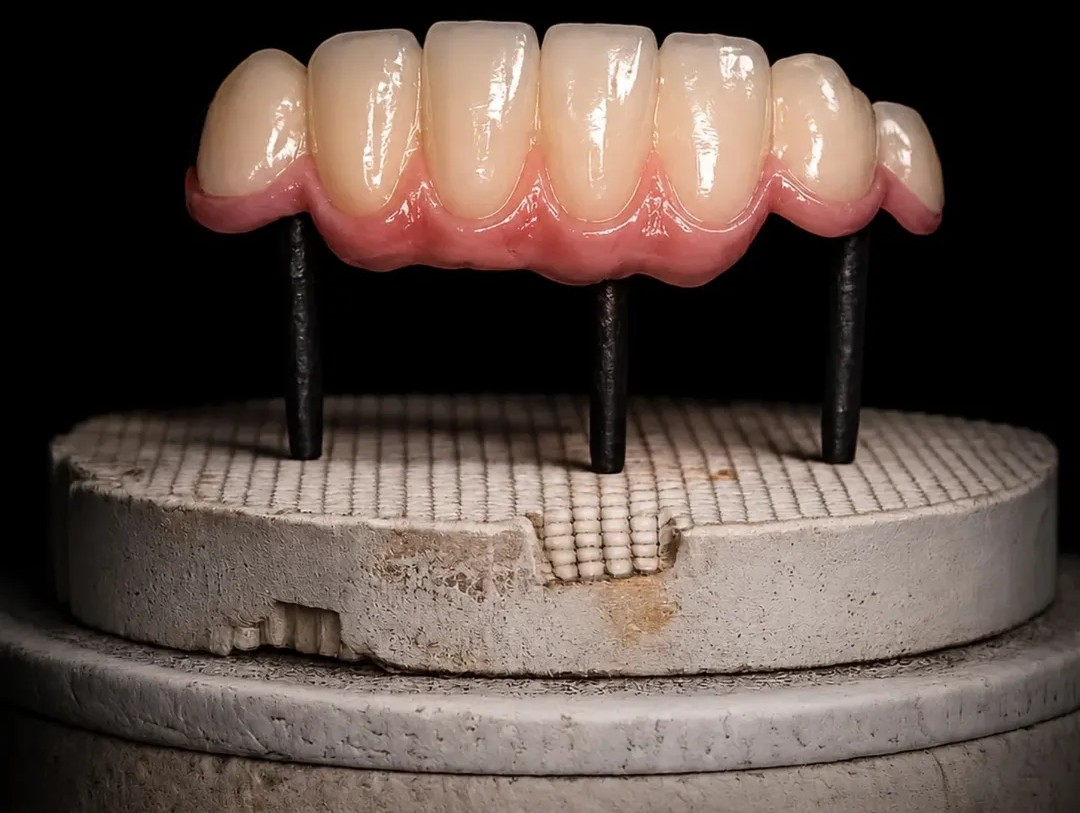
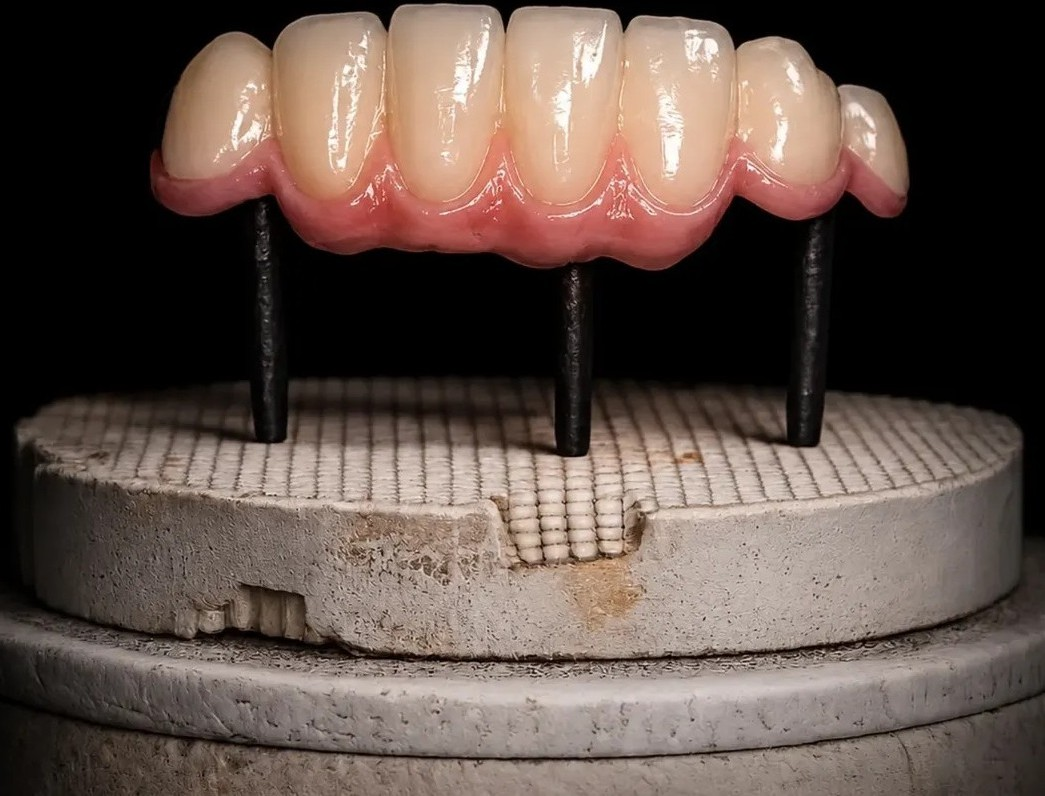
add all work cards

diff --git a/GD dental lab react/src/components/work_card.jsx b/GD dental lab react/src/components/work_card.jsx
@@ -1,21 +1,57 @@
 const myServices = [
   {
     id: 1,
-    title: "Zirconia Crowns",
-    description: "Strong, natural-looking metal-free crowns.",
+    title: "Zirconia Crowns & Bridges",
+    description: "Strong, natural-looking metal-free crowns with high biocompatibility.",
     imageUrl: "/images/zirconia.jpg" 
   },
   {
     id: 2,
-    title: "PFM Bridges",
-    description: "Porcelain fused to metal for durable bridges.",
-    imageUrl: "/images/pfm.jpg"
+    title: "Dental Implants & Custom Abutments",
+    description: "Precision-milled custom abutments and highly accurate implant-supported prosthetics.",
+    imageUrl: "/images/implants.jpg"
   },
   {
     id: 3,
-    title: "Removable Dentures",
-    description: "Comfortable, high-quality acrylic dentures.",
+    title: "DMLS (Direct Metal Laser Sintering)",
+    description: "Laser-sintered metal frameworks ensuring exceptional marginal fit and durability.",
+    imageUrl: "/images/dmls.jpg"
+  },
+  {
+    id: 4,
+    title: "All-Ceramic / E.max",
+    description: "Highly aesthetic lithium disilicate restorations, perfect for anterior teeth.",
+    imageUrl: "/images/ceramic.jpg"
+  },
+  {
+    id: 5,
+    title: "PFM Crowns & Bridges",
+    description: "Porcelain fused to metal for traditional, durable bridges and crowns.",
+    imageUrl: "/images/pfm.jpg"
+  },
+  {
+    id: 6,
+    title: "Removable Acrylic Dentures",
+    description: "Comfortable, high-quality full and partial acrylic dentures.",
     imageUrl: "/images/dentures.jpg"
+  },
+  {
+    id: 7,
+    title: "Cast Partial Dentures (CPD)",
+    description: "Lightweight and robust metal framework partial dentures for long-term use.",
+    imageUrl: "/images/cpd.jpg"
+  },
+  {
+    id: 8,
+    title: "Clear Aligners",
+    description: "Custom-thermoformed transparent aligners for precise orthodontic correction.",
+    imageUrl: "/images/aligners.jpg"
+  },
+  {
+    id: 9,
+    title: "Night Guards & Splints",
+    description: "Protective custom-fitted occlusal splints designed to prevent bruxism damage.",
+    imageUrl: "/images/nightguard.jpg"
   }
 ];
 
@@ -23,14 +59,14 @@ function Card(props){
   return(<>
       <div className="bg-white/10 backdrop-blur-md border-white/10 shadow-lg ml-12 mr-12 rounded-3xl">
         <img src={props.imageUrl} alt={props.title} />
-        <h3 className="text-white">{props.title}</h3>
-        <h4 className="text-gray-400">{props.description}</h4>
+        <h3 className="text-white p-4">{props.title}</h3>
+        <h4 className="text-gray-400 p-4">{props.description}</h4>
       </div>
   </>)
 }
 function MCard(){
   return(<>
-      <div className="grid grid-cols-1 md:grid-cols-3 gap-6 ">
+      <div className="grid grid-cols-3 md:grid-cols-3 gap-6 ">
         
         {myServices.map(function(service)
         { return(

diff --git a/GD dental lab react/src/App.jsx b/GD dental lab react/src/App.jsx
@@ -14,8 +14,10 @@ function App() {
       <div>
       </div>
     </div>
-    <div className="bg-[url(./assets/bg_poster_2.jpg)] h-dvh bg-cover">
-      <MCard></MCard>
+    <div className="bg-[url(./assets/bg_poster_1.jpg)] h-dvh bg-cover">
+      <div className="mr-8 ml-8 pt-24">
+        <MCard></MCard>
+      </div>
     </div>
 </>
   )